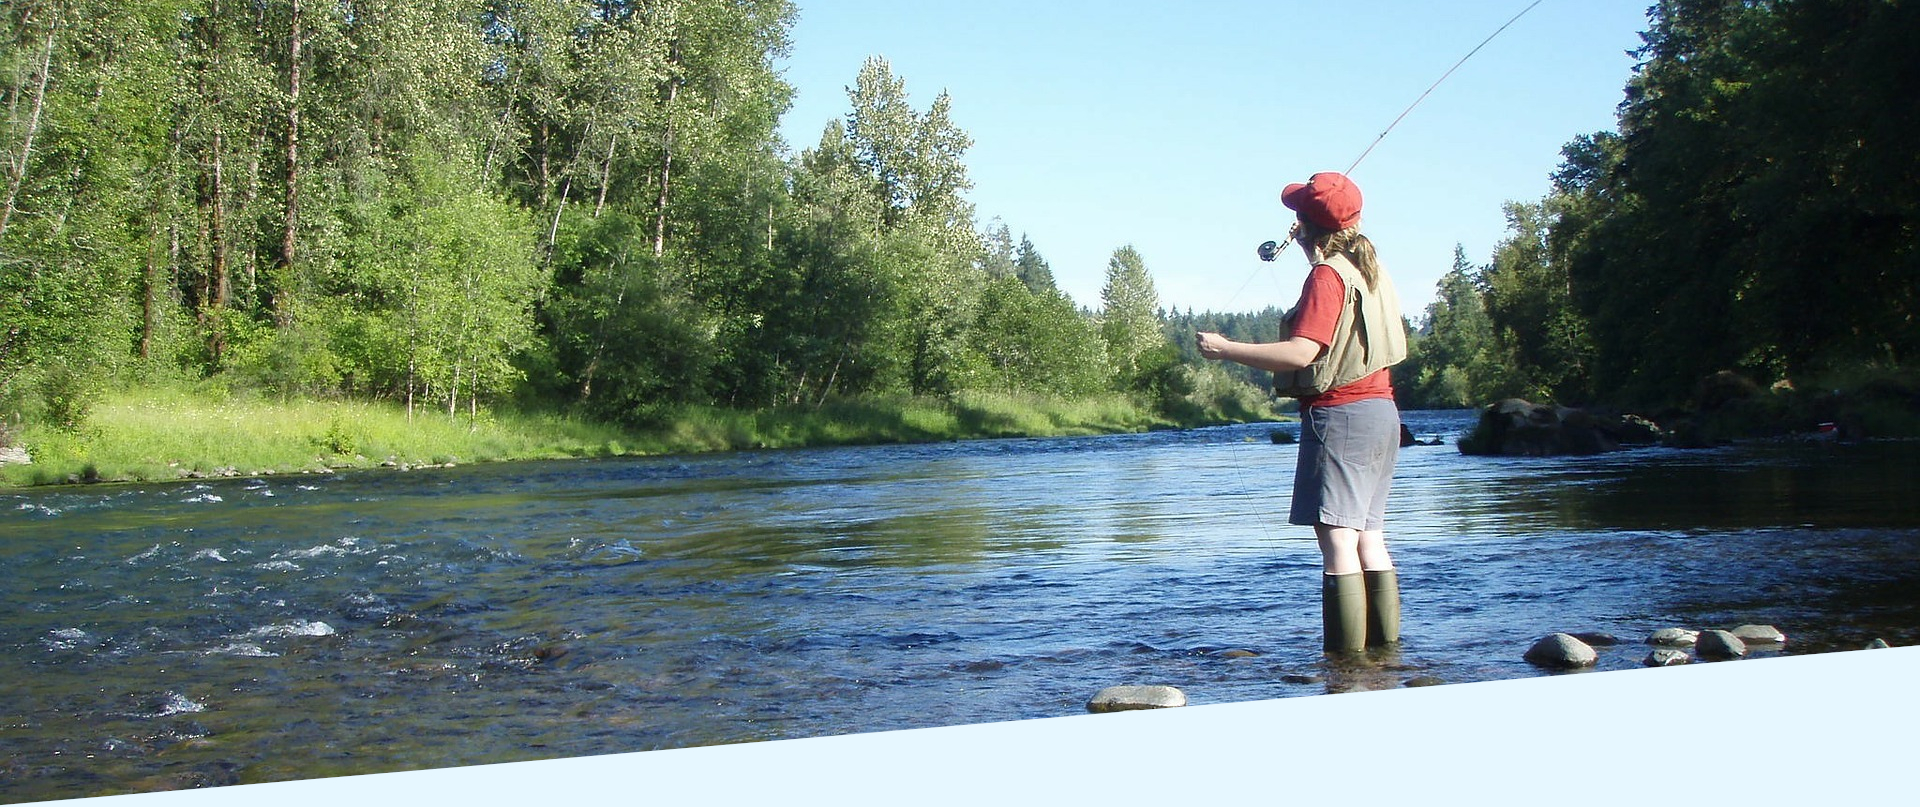
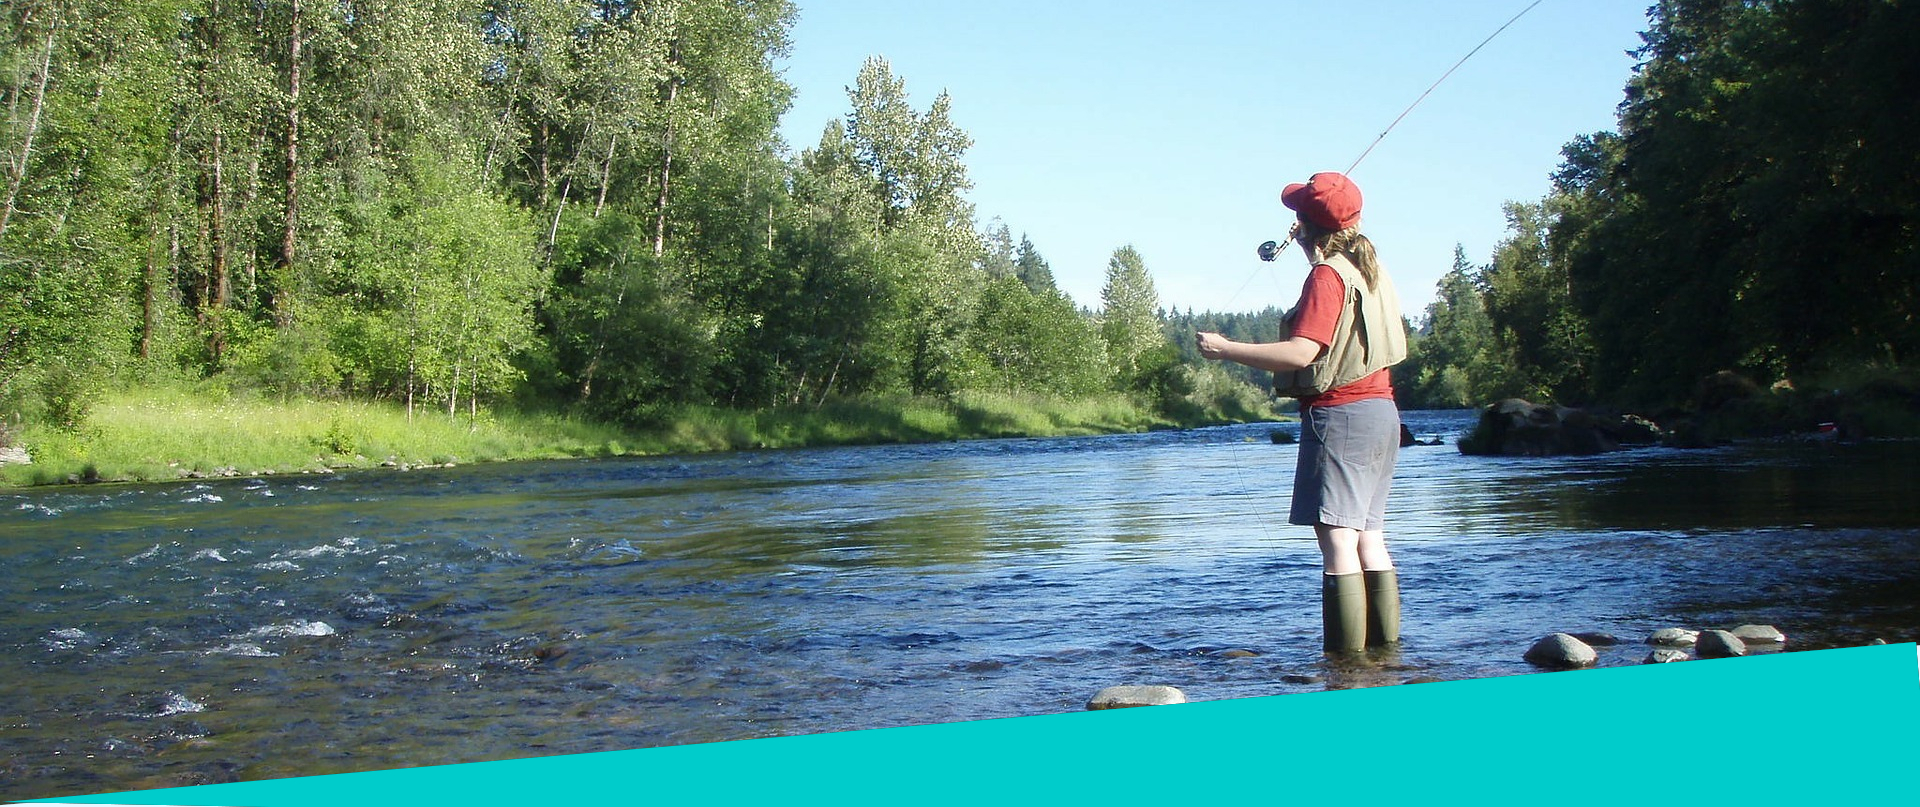
style welcome/exchange

Changed region(s): [[0.0, 0.7745, 1.0, 1.0]]

diff --git a/front-app/src/components/WelcomeBanner.js b/front-app/src/components/WelcomeBanner.js
@@ -5,14 +5,14 @@ import Picturebanner from "./../images/peche-coupe.jpg";
 class WelcomeBanner extends Component {
   render() {
     return (
-      <div style={{ backgroundColor: "#e6f7ff", height: "250px" }}>
+      <div style={{ backgroundColor: "#00cccc", height: "250px" }}>
         <img src={Picturebanner} alt="John" style={{ width: "100%" }} />
         <h4
           style={{
             margin: "0px",
             paddingTop: "8px",
             textAlign: "center",
-            color: "#009682",
+            color: "#ffffff",
             fontSize: "22px",
             fontWeight: "bold"
           }}
@@ -24,11 +24,11 @@ class WelcomeBanner extends Component {
             textAlign: "center"
           }}
         >
-          <a style={{ color: "#009682" }} href="/s-inscrire">
+          <a style={{ color: "#ffffff" }} href="/s-inscrire">
             S'inscrire /{" "}
           </a>
 
-          <a style={{ color: "#009682" }} href="/se-connecter">
+          <a style={{ color: "#ffffff" }} href="/se-connecter">
             Se connecter
           </a>
         </h5>

diff --git a/front-app/src/components/Exchanges/SelectArticles/ListArticlesToExchange.js b/front-app/src/components/Exchanges/SelectArticles/ListArticlesToExchange.js
@@ -15,12 +15,18 @@ const styles = createStyles({
     justifyContent: "center",
     padding: "10px"
   },
-  buttonForm: {
-    backgroundColor: "#009682"
-  },
   paper: {
     backgroundColor: "transparent",
     boxShadow: "none"
+  },
+  button: {
+    backgroundColor: "#009682",
+    border: "1px solid #009682",
+    display: "block",
+    color: "white",
+    margin: "0 auto",
+    width: "320px",
+    boxShadow: "1px 1px 2px 1px rgba(28, 31, 35, .1)"
   }
 });
 
@@ -150,7 +156,7 @@ class ListArticleToExchange extends Component {
               </Paper>
             ))}
             <Button
-              className={classes.buttonForm}
+              className={classes.button}
               onClick={() => this.sendProposition()}
               disabled={this.state.articleToExchange === 0}
             >

diff --git a/front-app/src/components/SearchArticles.js b/front-app/src/components/SearchArticles.js
@@ -13,7 +13,7 @@ export class SearchArticles extends Component {
           placeholder=" Votre recherche ..."
           style={{
             backgroundColor: "#ffffff",
-            border: "8px solid #e6f7ff",
+            border: "8px solid #00cccc",
             width: "96%",
             color: "#009682"
           }}
